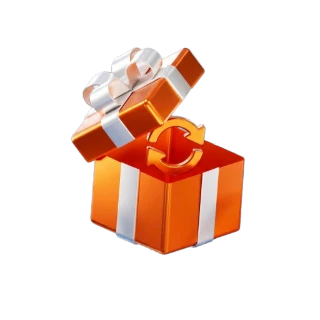
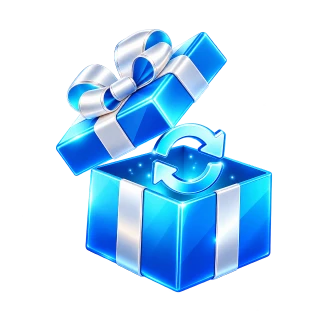
Betvoy Özel: mavi Oto Bonus ve Turnuvalar ikonları, kart ışığı maviye çevrildi

diff --git a/betvoy-custom.html b/betvoy-custom.html
@@ -149,9 +149,9 @@
             text-decoration: none;
             scroll-snap-align: start;
             isolation: isolate;
-            /* Koyu cam zemin + sağ tarafta görselin arkasında sıcak bir ışık */
+            /* Koyu cam zemin + sağ tarafta görselin arkasında mavi bir ışık */
             background:
-                radial-gradient(120% 140% at 100% 0%, rgba(255, 150, 45, .22) 0%, rgba(255, 150, 45, 0) 55%),
+                radial-gradient(120% 140% at 100% 0%, rgba(67, 214, 255, .2) 0%, rgba(67, 214, 255, 0) 55%),
                 radial-gradient(90% 120% at 0% 100%, rgba(31, 182, 236, .18) 0%, rgba(31, 182, 236, 0) 60%),
                 linear-gradient(160deg, #182431 0%, #111822 100%);
             box-shadow: 0 10px 24px -12px rgba(0, 0, 0, .7);
@@ -165,7 +165,7 @@
             inset: 0;
             padding: 1px;
             border-radius: inherit;
-            background: linear-gradient(135deg, rgba(67, 214, 255, .55), rgba(67, 214, 255, .06) 45%, rgba(255, 160, 60, .35));
+            background: linear-gradient(135deg, rgba(67, 214, 255, .55), rgba(67, 214, 255, .06) 45%, rgba(67, 214, 255, .3));
             -webkit-mask: linear-gradient(#000 0 0) content-box, linear-gradient(#000 0 0);
             -webkit-mask-composite: xor;
             mask-composite: exclude;
@@ -268,7 +268,7 @@
             height: auto;
             aspect-ratio: 1;
             object-fit: contain;
-            filter: drop-shadow(0 10px 14px rgba(0, 0, 0, .45));
+            filter: drop-shadow(0 8px 14px rgba(0, 0, 0, .5)) drop-shadow(0 0 10px rgba(31, 182, 236, .25));
             transition: transform .4s cubic-bezier(.2, .8, .2, 1), opacity .3s;
             opacity: 0;
             -webkit-user-drag: none;
